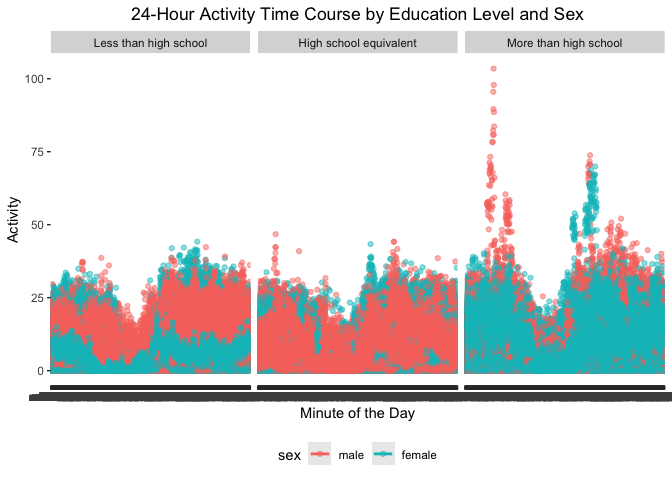
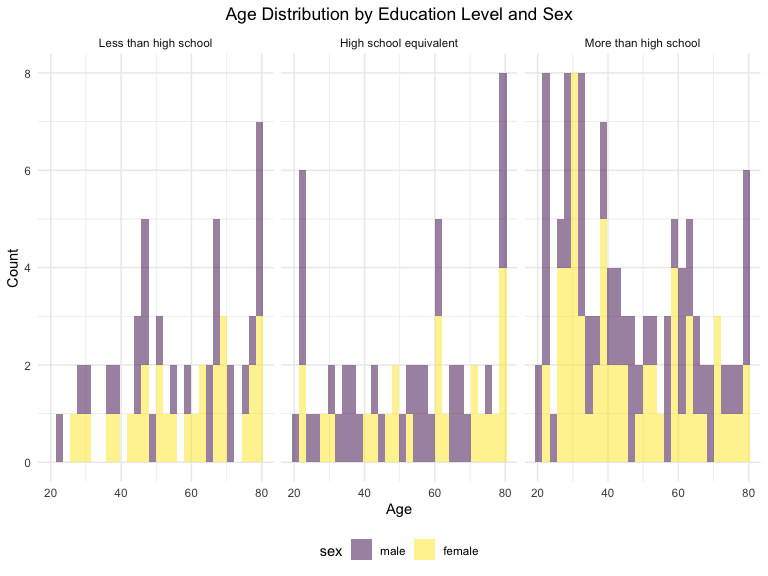
problem 1

diff --git a/p8105_hw3_sl5685.md b/p8105_hw3_sl5685.md
@@ -3,23 +3,76 @@ p8105_hw3_sl5685
 Shumei Liu
 2024-10-08
 
+### Problem 1
+
 ``` r
-#Load necessary libraries
-library(tidyverse)
+library(p8105.datasets)
+data("ny_noaa")
 ```
 
-    ## ── Attaching core tidyverse packages ──────────────────────── tidyverse 2.0.0 ──
-    ## ✔ dplyr     1.1.4     ✔ readr     2.1.5
-    ## ✔ forcats   1.0.0     ✔ stringr   1.5.1
-    ## ✔ ggplot2   3.5.1     ✔ tibble    3.2.1
-    ## ✔ lubridate 1.9.3     ✔ tidyr     1.3.1
-    ## ✔ purrr     1.0.2     
-    ## ── Conflicts ────────────────────────────────────────── tidyverse_conflicts() ──
-    ## ✖ dplyr::filter() masks stats::filter()
-    ## ✖ dplyr::lag()    masks stats::lag()
-    ## ℹ Use the conflicted package (<http://conflicted.r-lib.org/>) to force all conflicts to become errors
+``` r
+ny_noaa |>
+  count(snow) |>
+  arrange(desc(n))
+```
 
-### Problem 1
+    ## # A tibble: 282 × 2
+    ##     snow       n
+    ##    <int>   <int>
+    ##  1     0 2008508
+    ##  2    NA  381221
+    ##  3    25   31022
+    ##  4    13   23095
+    ##  5    51   18274
+    ##  6    76   10173
+    ##  7     8    9962
+    ##  8     5    9748
+    ##  9    38    9197
+    ## 10     3    8790
+    ## # ℹ 272 more rows
+
+``` r
+ny_noaa = 
+  ny_noaa |>
+  separate(date, into = c("year", "month", "day"), convert = TRUE) |>
+  mutate(
+    tmax = as.numeric(tmax),
+    tmin = as.numeric(tmin))
+```
+
+``` r
+ny_noaa |> 
+  group_by(id, year, month) |> 
+  filter(month %in% c(1, 7)) |> 
+  summarize(mean_tmax = mean(tmax, na.rm = TRUE, color = id)) |> 
+  ggplot(aes(x = year, y = mean_tmax, group = id)) + geom_point() + geom_path() +
+  facet_grid(~month) +
+  labs(title = "Mean monthly temperature for each station across years for January and July")
+```
+
+    ## `summarise()` has grouped output by 'id', 'year'. You can override using the
+    ## `.groups` argument.
+
+<img src="p8105_hw3_sl5685_files/figure-gfm/unnamed-chunk-4-1.png" width="90%" />
+
+``` r
+hex = 
+  ny_noaa |> 
+  ggplot(aes(x = tmin, y = tmax)) + 
+  geom_hex()
+
+ridge = 
+  ny_noaa |>
+  filter(snow < 100, snow > 0) |>
+  ggplot(aes(x = snow, y = as.factor(year))) + 
+  geom_density_ridges()
+
+hex + ridge
+```
+
+    ## Picking joint bandwidth of 3.76
+
+<img src="p8105_hw3_sl5685_files/figure-gfm/unnamed-chunk-5-1.png" width="90%" />
 
 ### Problem 2
 
@@ -128,8 +181,8 @@ ggplot(whole_df, aes(x = age, fill = sex)) +
 
     ## `stat_bin()` using `bins = 30`. Pick better value with `binwidth`.
 
-![](p8105_hw3_sl5685_files/figure-gfm/unnamed-chunk-6-1.png)<!-- --> In
-all three education levels, there are more males than females. In the
+<img src="p8105_hw3_sl5685_files/figure-gfm/unnamed-chunk-9-1.png" width="90%" />
+In all three education levels, there are more males than females. In the
 category of more than high school, young people are more than old
 people, especially young females. In the category of less than high
 school, there are more elderly people, especially elderly males.
@@ -155,11 +208,11 @@ ggplot(total_activity, aes(x = age, y = totalactivity, color = sex)) +
 
     ## `geom_smooth()` using formula = 'y ~ x'
 
-![](p8105_hw3_sl5685_files/figure-gfm/unnamed-chunk-8-1.png)<!-- --> It
-can be clearly seen from the chart that, regardless of education level
-or gender, the older the less total activity time. From the charts for
-high school level and more than high school, it can be seen that females
-have more total activity time than males.
+<img src="p8105_hw3_sl5685_files/figure-gfm/unnamed-chunk-11-1.png" width="90%" />
+It can be clearly seen from the chart that, regardless of education
+level or gender, the older the less total activity time. From the charts
+for high school level and more than high school, it can be seen that
+females have more total activity time than males.
 
 ``` r
 #Make a three-panel plot that shows the 24-hour activity time courses for each education level
@@ -184,11 +237,11 @@ ggplot(activity_long, aes(x = minute, y = activity, color = sex)) +
 
     ## `geom_smooth()` using formula = 'y ~ x'
 
-![](p8105_hw3_sl5685_files/figure-gfm/unnamed-chunk-9-1.png)<!-- --> In
-the more than high school category, females are more active than males.
-In the high school level category, males have activity time more than
-females. In the less than high school category, the ratio of males to
-females is the same.
+<img src="p8105_hw3_sl5685_files/figure-gfm/unnamed-chunk-12-1.png" width="90%" />
+In the more than high school category, females are more active than
+males. In the high school level category, males have activity time more
+than females. In the less than high school category, the ratio of males
+to females is the same.
 
 ### Problem 3
 
@@ -327,9 +380,9 @@ median_duration_plot = citi_bike_data |>
 median_duration_plot
 ```
 
-![](p8105_hw3_sl5685_files/figure-gfm/unnamed-chunk-13-1.png)<!-- --> In
-2020, Fridays had the most riding time, and Thursday the least, but in
-2024, riding time was roughly the same every day.
+<img src="p8105_hw3_sl5685_files/figure-gfm/unnamed-chunk-16-1.png" width="90%" />
+In 2020, Fridays had the most riding time, and Thursday the least, but
+in 2024, riding time was roughly the same every day.
 
 ``` r
 # Plot to investigate the impact of month, membership status, and bike type on ride duration distribution for 2024 data
@@ -349,7 +402,7 @@ ride_duration
 
     ## `stat_bin()` using `bins = 30`. Pick better value with `binwidth`.
 
-![](p8105_hw3_sl5685_files/figure-gfm/unnamed-chunk-14-1.png)<!-- --> As
-can be seen from the chart, the riding duration of both types of bikes
-is mostly less than 50 minutes. Members ride more frequently, while more
-people choose classic bicycles.
+<img src="p8105_hw3_sl5685_files/figure-gfm/unnamed-chunk-17-1.png" width="90%" />
+As can be seen from the chart, the riding duration of both types of
+bikes is mostly less than 50 minutes. Members ride more frequently,
+while more people choose classic bicycles.
